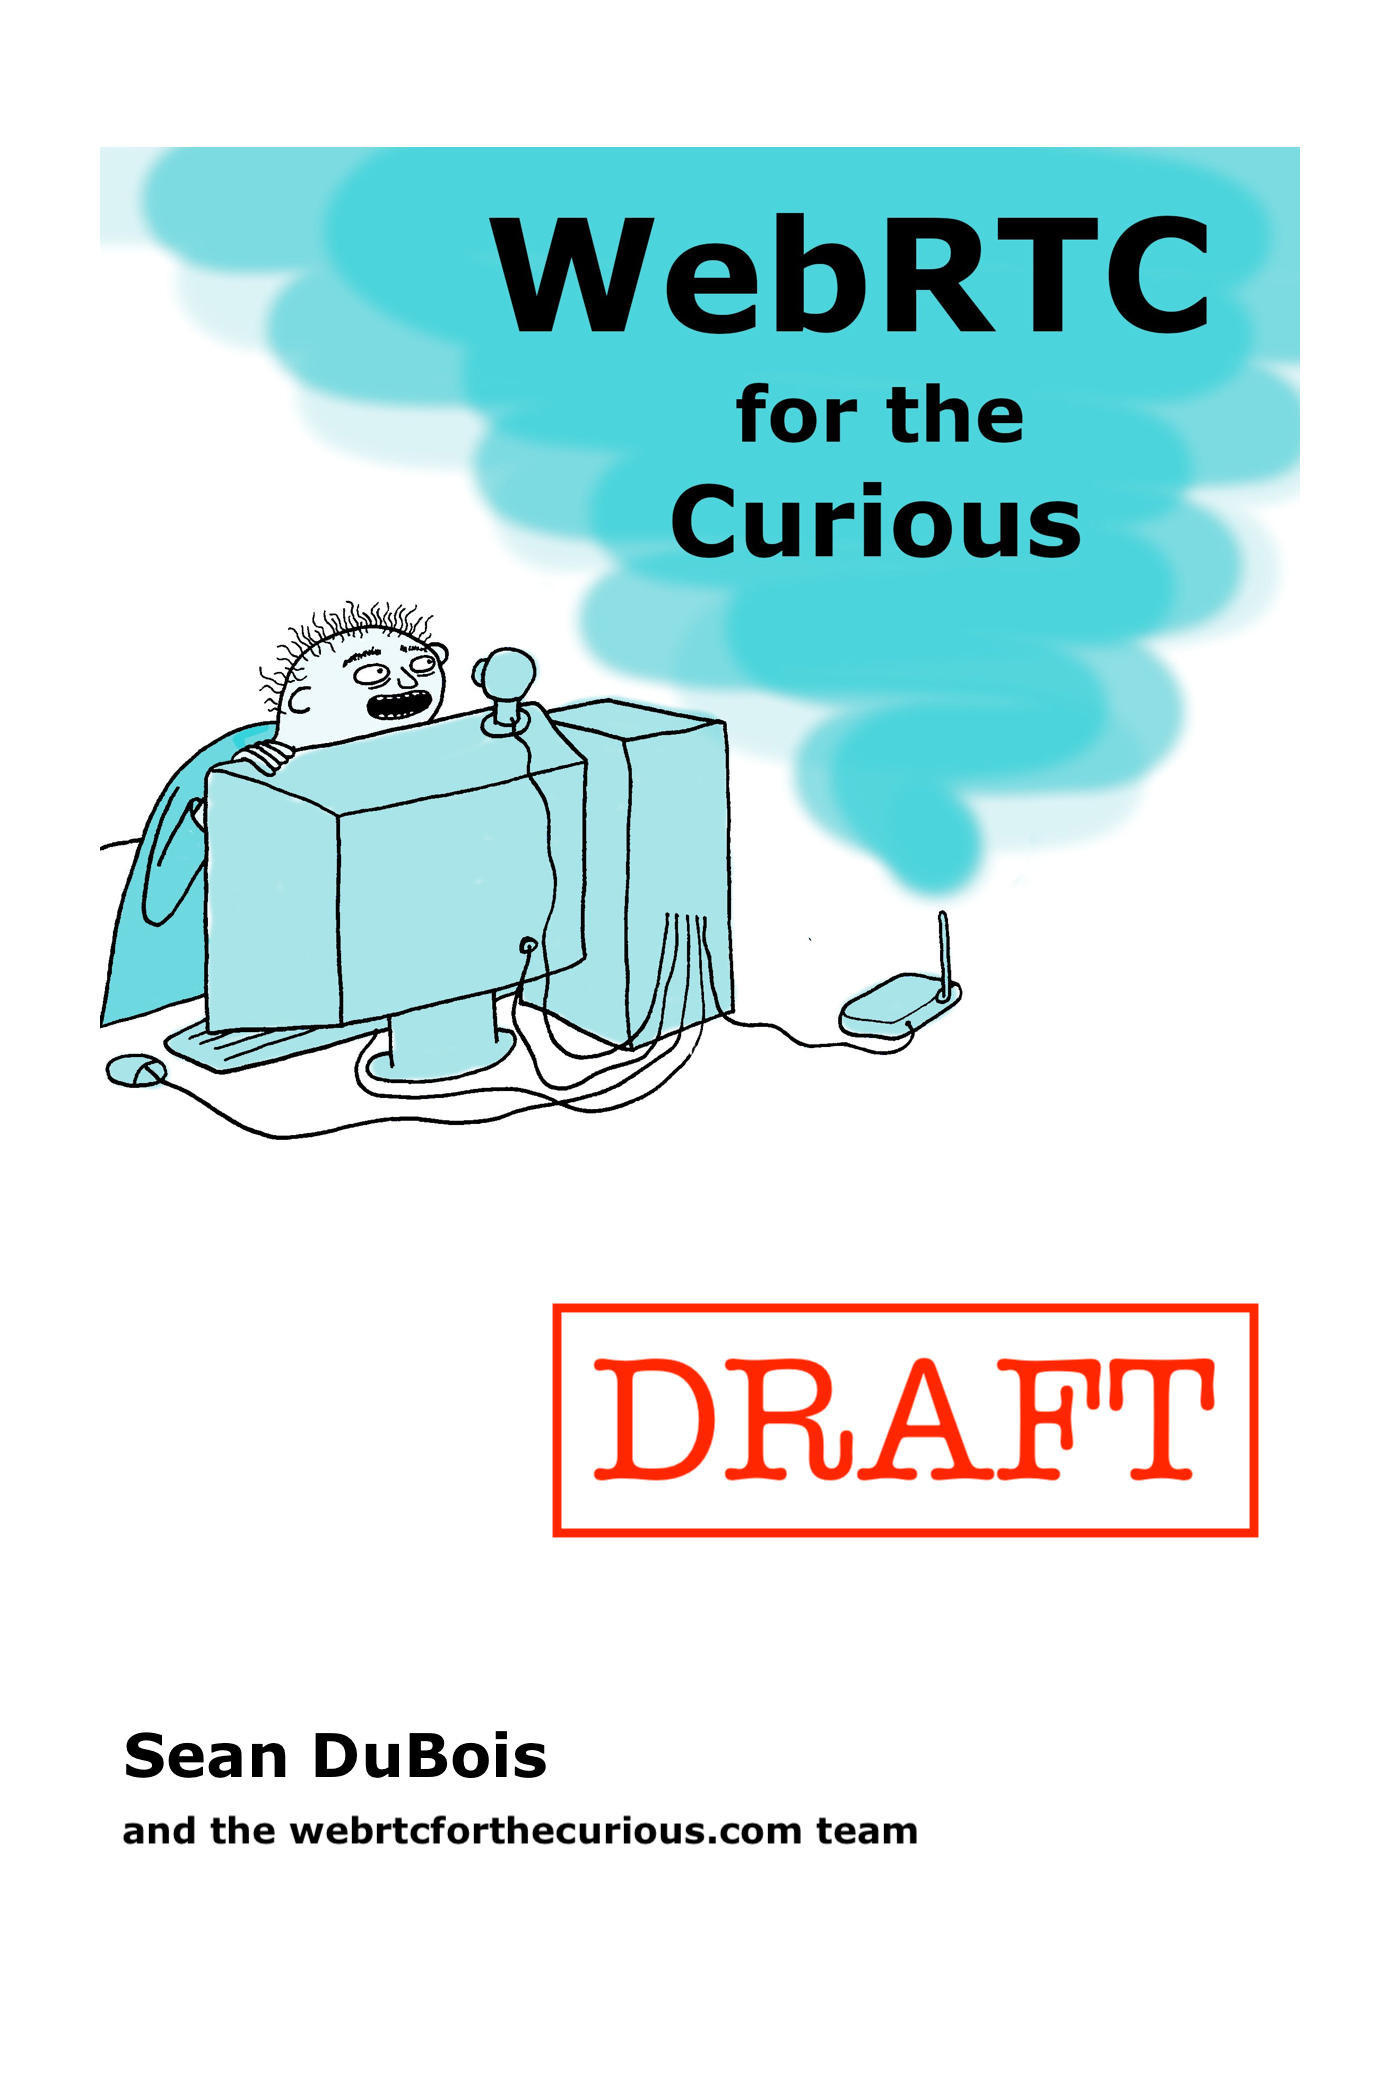
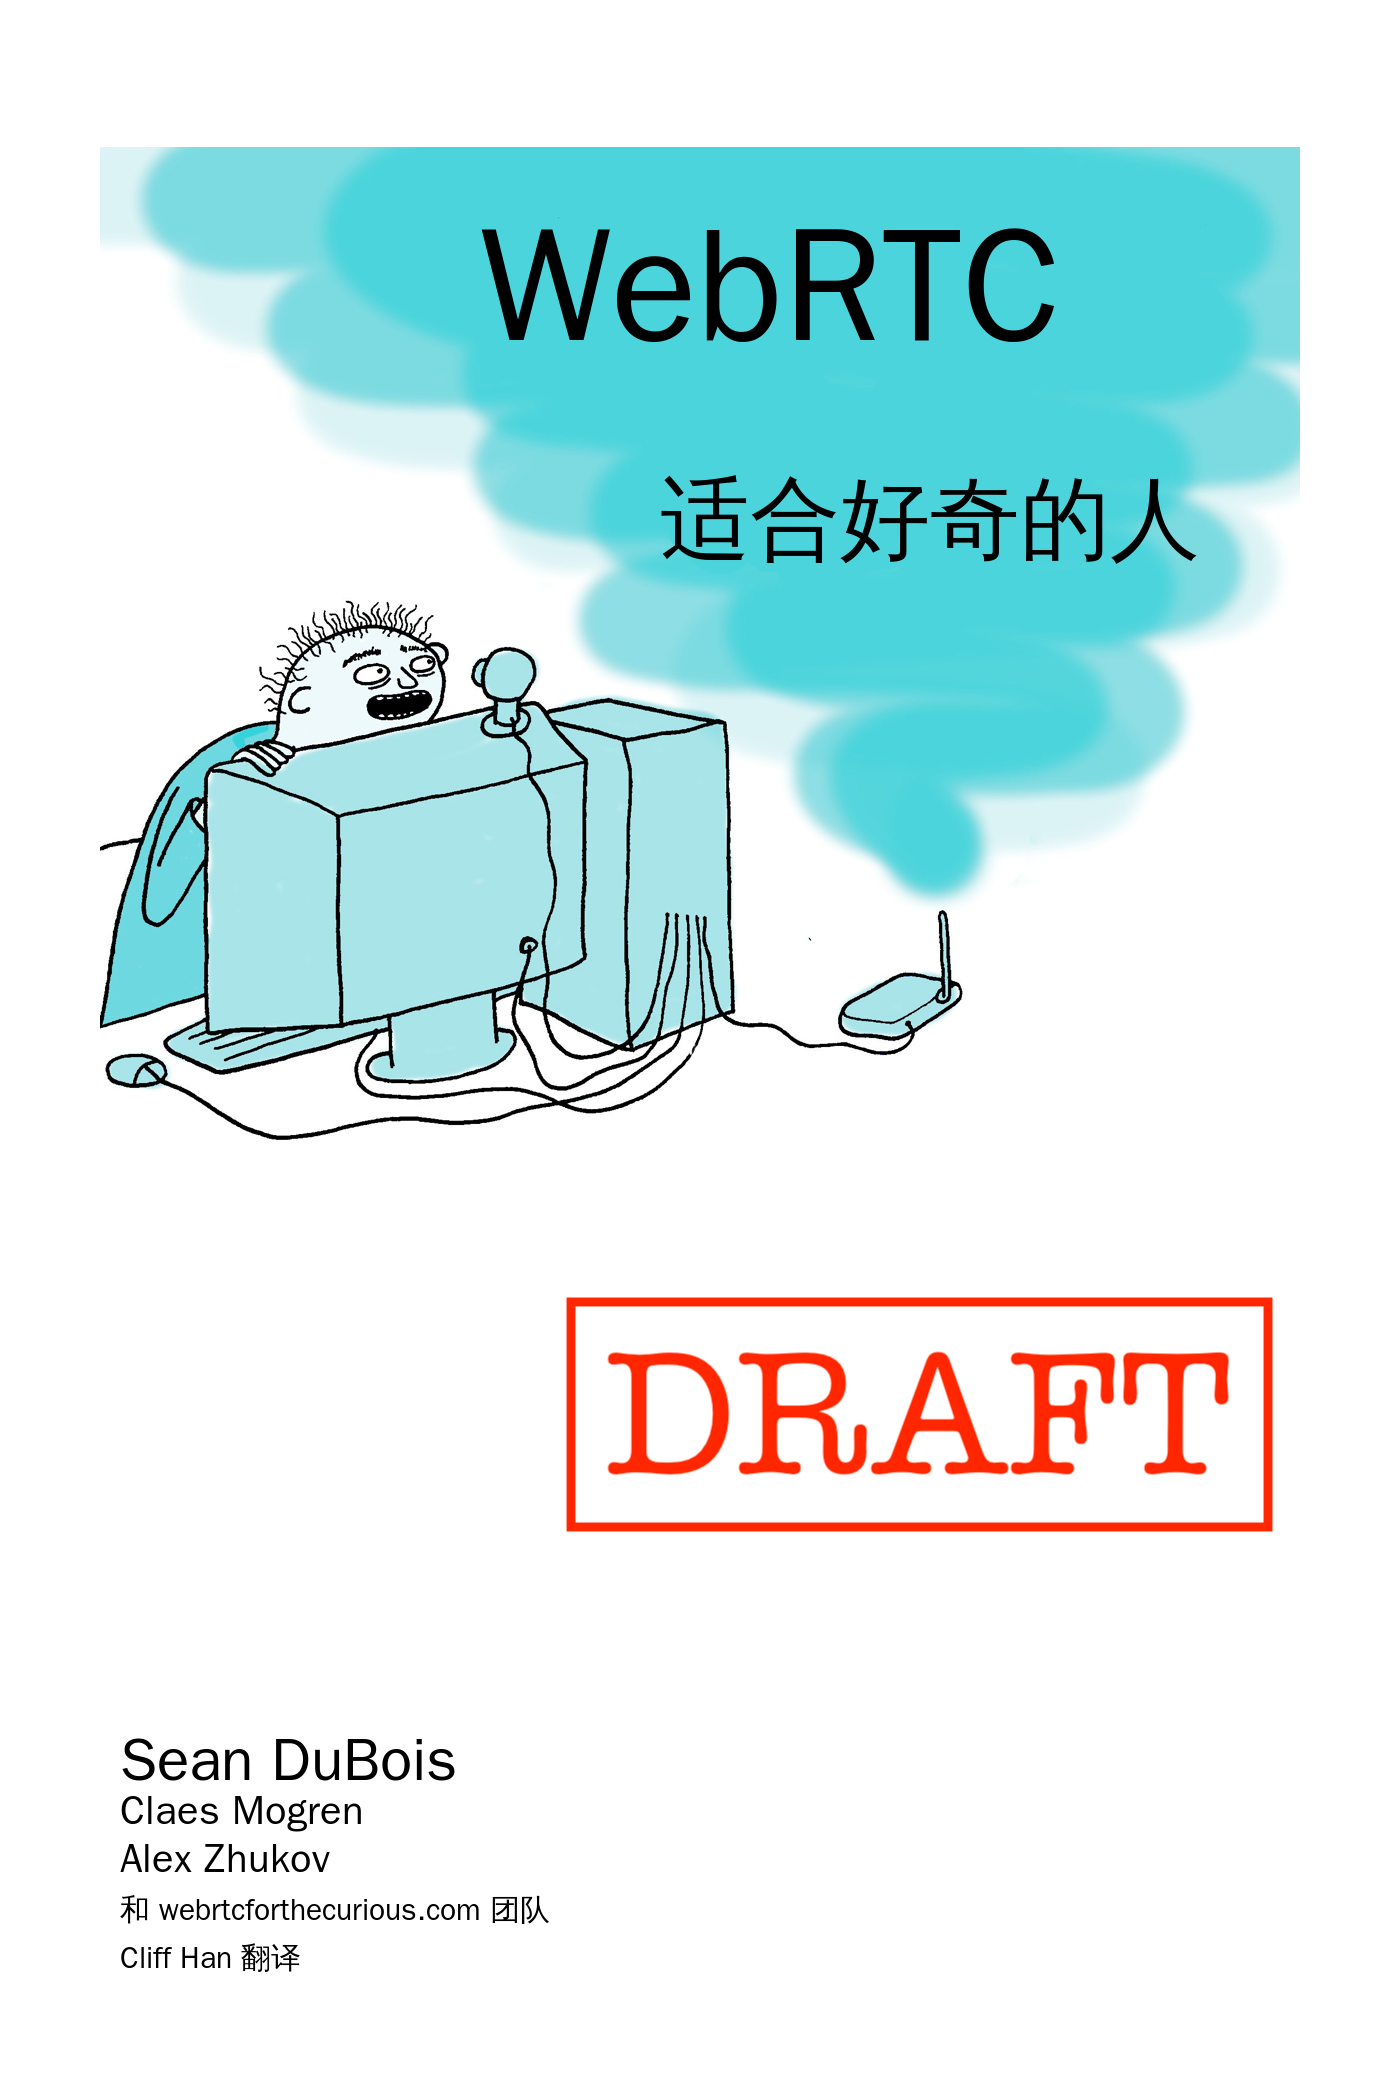
add authors and translators to the cover page based on their contribution

Changed region(s): [[0.3379, 0.0929, 0.86, 0.2786], [0.3686, 0.619, 0.9214, 0.7429], [0.0921, 0.8048, 0.645, 0.9595]]

diff --git a/make-cover-zh-cn.py b/make-cover-zh-cn.py
@@ -1,0 +1,58 @@
+#!/usr/bin/python3
+
+import subprocess
+
+def contributions(folder = "content/"):
+    proc = subprocess.Popen(['git','log', '--shortstat', '--pretty="%aN"', folder],stdout=subprocess.PIPE)
+
+    contributions=dict()
+
+    author=""
+    for i, linecrlf in enumerate(proc.stdout):
+        line = linecrlf.rstrip()
+        if i % 3 == 0:
+            author=line.decode("utf-8").replace('"', '')
+            if not author in contributions:
+                contributions[author] = 0
+        if i % 3 == 2:
+            tokens = line.decode("utf-8").split(" ")
+            if len(tokens) > 6:
+                contributions[author] += int(tokens[4]) + int(tokens[6])
+            else:
+                contributions[author] += int(tokens[4])
+
+    return contributions
+
+def sort_by_contrib(contrib: dict):
+    authors_by_contrib=list(contrib.items())
+    authors_by_contrib.sort(reverse=True, key=lambda x: x[1])
+    return authors_by_contrib
+
+
+authors_by_contrib=sort_by_contrib(contributions("content/"))
+
+best = authors_by_contrib[0]
+
+convert_command="""convert -font WenQuanYi-Zen-Hei -fill black \
+    -pointsize 160 -draw "text 480,340 'WebRTC'" \
+    -pointsize 90 -draw "text 660,550 '适合好奇的人'" \
+"""
+
+convert_command+=f" -pointsize 60 -draw \"text 120,1780 '{best[0]}'\""
+ypos=1800
+for i in range(1,min(3, len(authors_by_contrib))):
+    ypos = ypos + i*24
+    convert_command+=f" -pointsize 40 -draw \"text 120,{ypos} '{authors_by_contrib[i][0]}'\""
+
+ypos = ypos + i*24
+convert_command+=f" -pointsize 30 -draw \"text 120,{ypos} '和 webrtcforthecurious.com 团队'\""
+
+translators = contributions("content.zh-cn/")
+best_translator=sort_by_contrib(translators)[0]
+
+ypos = ypos + i*24
+convert_command+=f" -pointsize 30 -draw \"text 120,{ypos} '{best_translator[0]} 翻译'\"" # i just used google translate to get this
+
+convert_command+=" \"content/images/epub-cover notitle.png\" \"content.zh-cn/images/epub-cover.png\""
+print(convert_command)
+subprocess.check_output(convert_command, shell=True, text=True)

diff --git a/make-cover.py b/make-cover.py
@@ -1,0 +1,55 @@
+#!/usr/bin/python3
+
+import subprocess
+ 
+
+def contributions(folder = "content/"):
+    proc = subprocess.Popen(['git','log', '--shortstat', '--pretty="%aN"', folder],stdout=subprocess.PIPE)
+
+    contributions=dict()
+
+    author=""
+    for i, linecrlf in enumerate(proc.stdout):
+        line = linecrlf.rstrip()
+        if i % 3 == 0:
+            author=line.decode("utf-8").replace('"', '')
+            if not author in contributions:
+                contributions[author] = 0
+        if i % 3 == 2:
+            tokens = line.decode("utf-8").split(" ")
+            if len(tokens) > 6:
+                contributions[author] += int(tokens[4]) + int(tokens[6])
+            else:
+                contributions[author] += int(tokens[4])
+
+    return contributions
+
+def sort_by_contrib(contrib: dict):
+    authors_by_contrib=list(contrib.items())
+    authors_by_contrib.sort(reverse=True, key=lambda x: x[1])
+    return authors_by_contrib
+
+
+authors_by_contrib=sort_by_contrib(contributions("content/"))
+
+best = authors_by_contrib[0]
+
+convert_command="""convert -font FreeSans-Bold -fill black \
+    -pointsize 160 -draw "text 480,340 'WebRTC'" \
+    -pointsize 80 -draw "text 720,460 'for the'" \
+    -pointsize 120 -draw "text 660,550 'Curious'" \
+"""
+
+convert_command+=f" -pointsize 60 -draw \"text 120,1780 '{best[0]}'\""
+ypos=1800
+for i in range(1,min(3, len(authors_by_contrib))):
+    ypos = ypos + i*24
+    convert_command+=f" -pointsize 40 -draw \"text 120,{ypos} '{authors_by_contrib[i][0]}'\""
+
+ypos = ypos + i*24
+convert_command+=f" -pointsize 30 -draw \"text 120,{ypos} 'and the webrtcforthecurious.com team'\""
+
+
+convert_command+=" \"content/images/epub-cover notitle.png\" \"content/images/epub-cover.png\""
+print(convert_command)
+subprocess.check_output(convert_command, shell=True, text=True)
